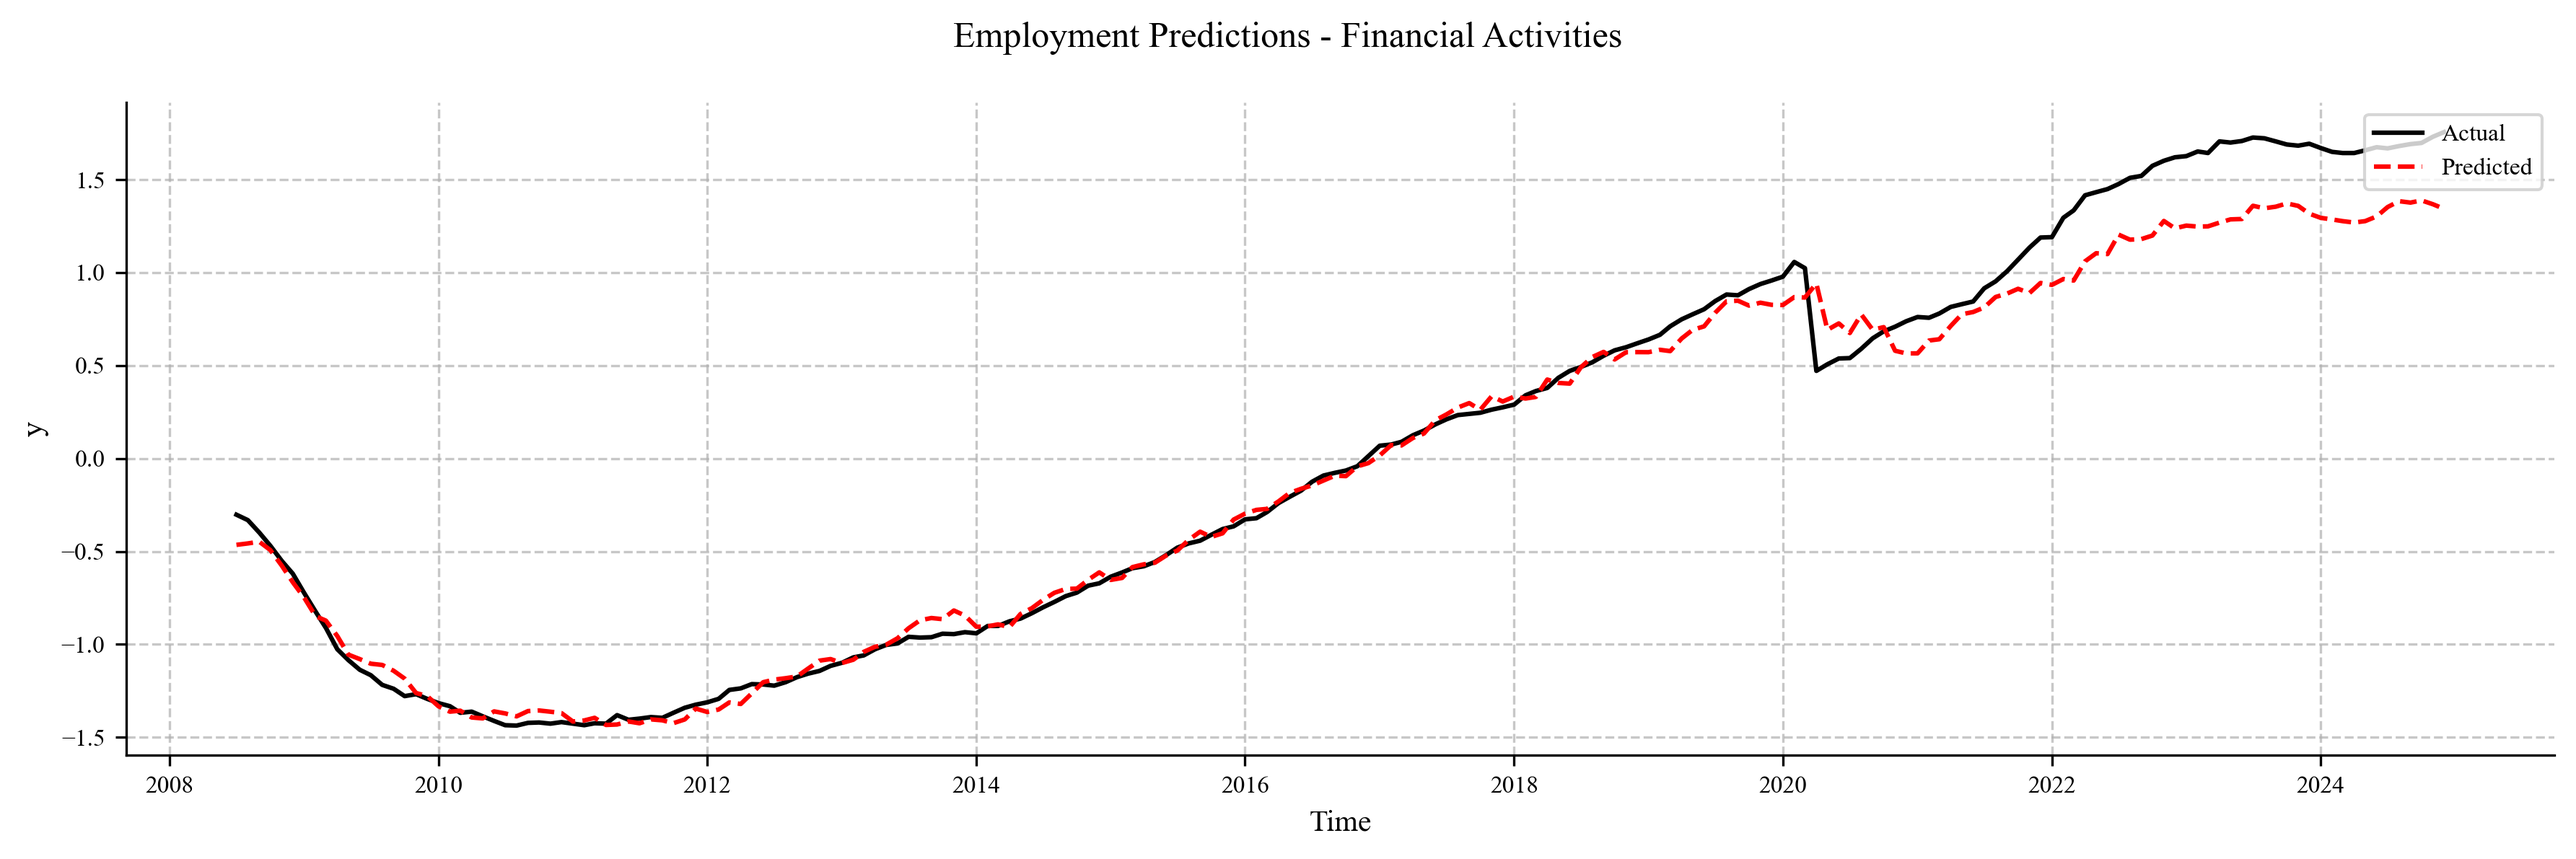
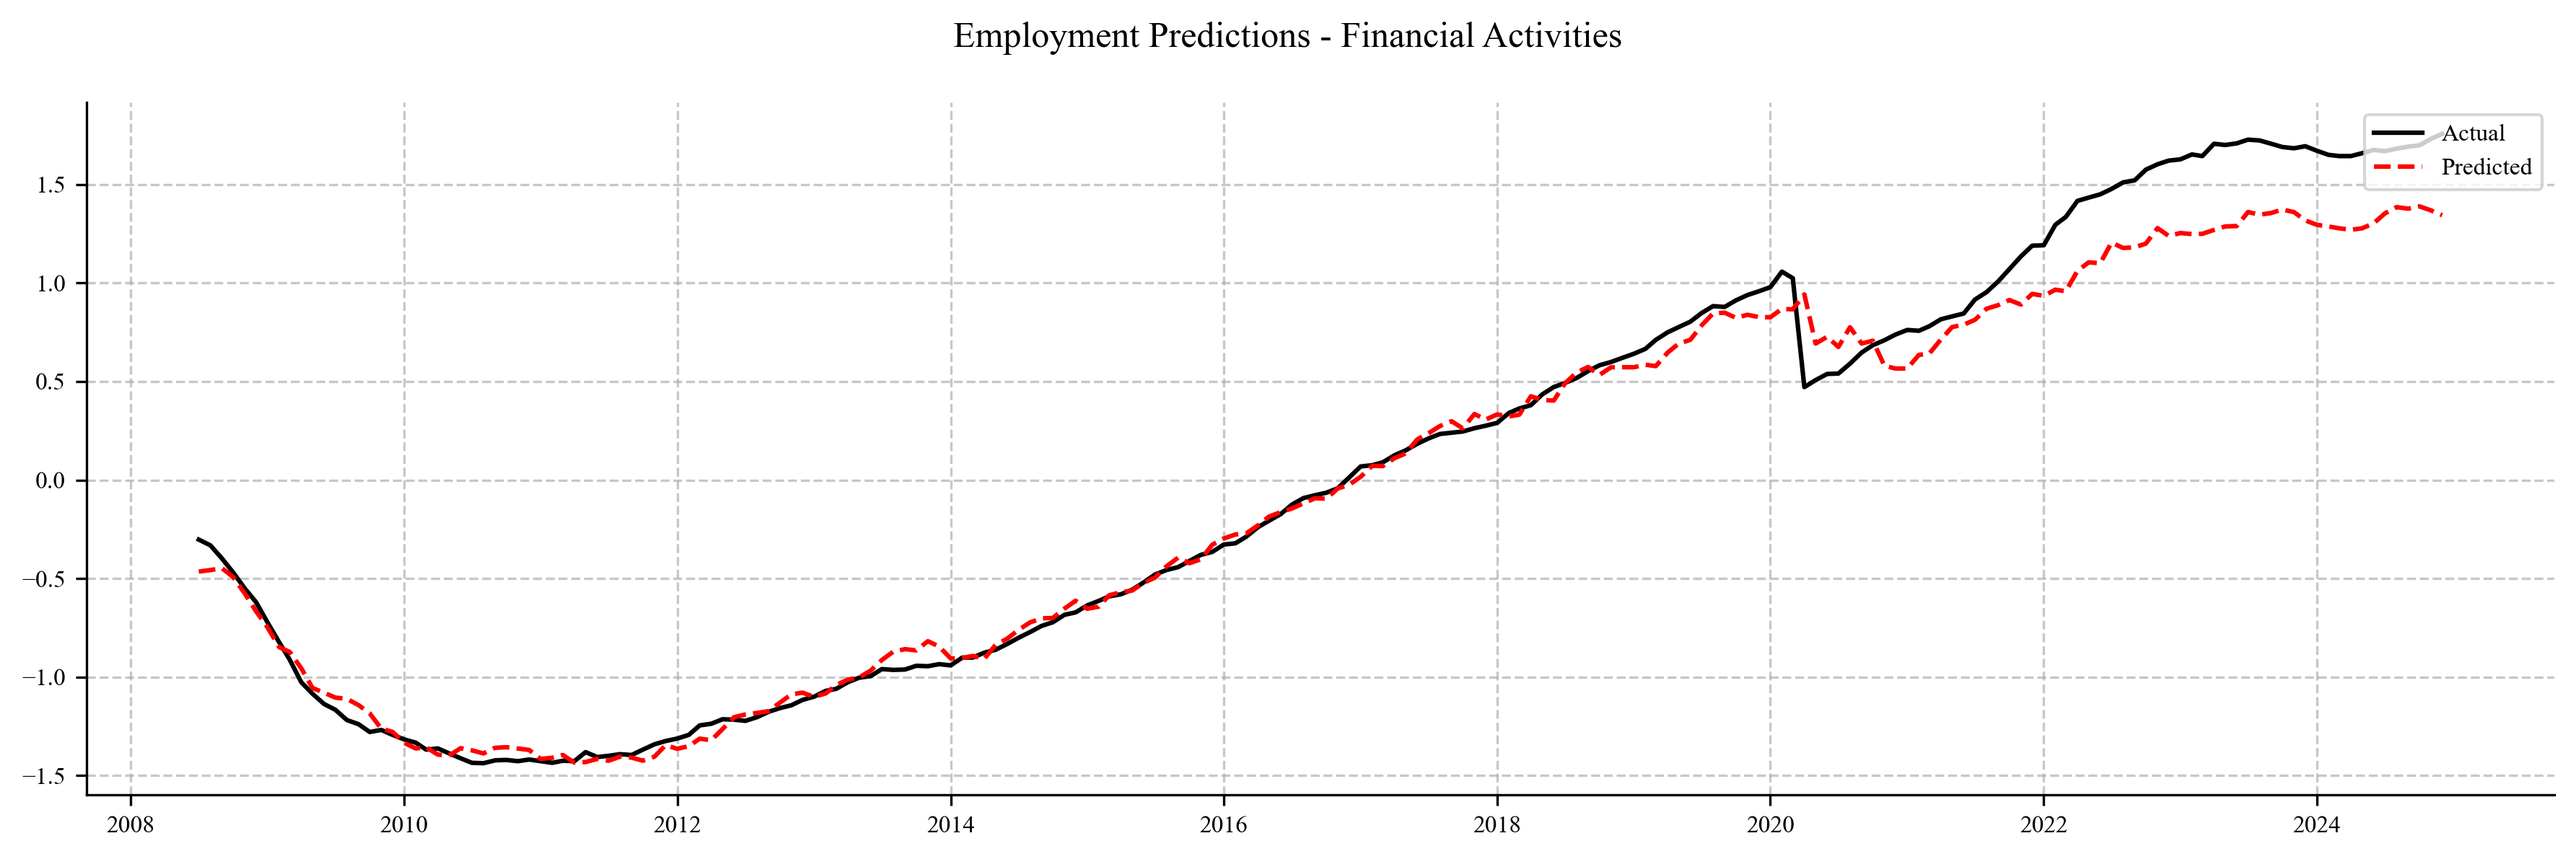
fixed styling on generated visuals

diff --git a/src/engine/evaluate.py b/src/engine/evaluate.py
@@ -8,6 +8,7 @@ from src.visualization.plotter import plot_predictions, plot_loss_curves, print_
 from OLD_FILES.LSTNet import LSTNet
 import argparse
 import time
+import matplotlib.pyplot as plt
 
 def load_model(industry=None):
     """
@@ -143,6 +144,106 @@ def calculate_metrics(y_true, y_pred, feature_names):
     
     return metrics
 
+def plot_average_unemployment(industry_predictions, savepath=None):
+    """
+    Plot the average predicted unemployment versus real average unemployment across all industries.
+    
+    Args:
+        industry_predictions (dict): Dictionary mapping industry names to (dates, y_true, y_pred) tuples
+        savepath (str, optional): Path to save the plot
+    """
+    # Find common date range across all industries
+    # We'll use the first industry's dates as reference
+    ref_industry = list(industry_predictions.keys())[0]
+    ref_dates = industry_predictions[ref_industry]['dates']
+    
+    # Initialize arrays for accumulated true and predicted values
+    avg_true = np.zeros(len(industry_predictions[ref_industry]['y_true']))
+    avg_pred = np.zeros(len(industry_predictions[ref_industry]['y_pred']))
+    
+    # Count how many industries we're averaging
+    count = 0
+    
+    # Sum up all the values
+    for industry, data in industry_predictions.items():
+        if data['y_true'].shape[0] == avg_true.shape[0]:  # Make sure lengths match
+            avg_true += data['y_true']
+            avg_pred += data['y_pred']
+            count += 1
+    
+    # Calculate averages
+    if count > 0:
+        avg_true /= count
+        avg_pred /= count
+        
+        # Plot the average comparison
+        fig, ax = plt.subplots(figsize=(12, 6))
+        
+        # Plot the true average
+        ax.plot(ref_dates[-len(avg_true):], avg_true, 
+                label='Actual Average Unemployment', 
+                color='black', 
+                linewidth=2)
+        
+        # Plot the predicted average
+        ax.plot(ref_dates[-len(avg_pred):], avg_pred, 
+                label='Predicted Average Unemployment', 
+                color='red', 
+                linewidth=2, 
+                linestyle='--')
+        
+        # Add title but remove axis labels
+        ax.set_title('Average Unemployment Across All Industries', fontweight='bold')
+        
+        # Remove axis labels
+        ax.set_xlabel('')
+        ax.set_ylabel('')
+        
+        # Add legend at the top right
+        ax.legend(loc='upper right')
+        
+        # Add grid
+        ax.grid(True, alpha=0.3)
+        
+        # Apply academic styling
+        plt.xticks(rotation=45)
+        plt.tight_layout()
+        
+        # Calculate metrics for average prediction
+        mse = np.mean((avg_true - avg_pred)**2)
+        mae = np.mean(np.abs(avg_true - avg_pred))
+        
+        # Calculate SMAPE
+        denominator = np.abs(avg_true) + np.abs(avg_pred)
+        mask = denominator != 0
+        smape = 100.0 * np.mean(2.0 * np.abs(avg_true[mask] - avg_pred[mask]) / denominator[mask])
+        
+        # Add metrics annotation - moved lower to avoid overlap with the line legend
+        metrics_text = f'MSE: {mse:.4f}\nMAE: {mae:.4f}\nSMAPE: {smape:.2f}%'
+        ax.annotate(metrics_text, xy=(0.02, 0.70), xycoords='axes fraction',  # Moved from 0.95 to 0.70
+                    bbox=dict(boxstyle="round,pad=0.3", fc="white", ec="black", alpha=0.8),
+                    va='top', ha='left')
+        
+        # Save or show the plot
+        if savepath:
+            # Ensure directory exists
+            Path(savepath).parent.mkdir(exist_ok=True, parents=True)
+            plt.savefig(savepath, dpi=300, bbox_inches="tight")
+        else:
+            plt.show()
+            
+        plt.close()
+        
+        print(f"\nAverage unemployment metrics across {count} industries:")
+        print(f"MSE: {mse:.4f}")
+        print(f"MAE: {mae:.4f}")
+        print(f"SMAPE: {smape:.2f}%")
+        
+        return avg_true, avg_pred
+    else:
+        print("No valid data to compute average unemployment")
+        return None, None
+
 def evaluate_all_industries():
     """
     Evaluate models for all industries and generate comparison visualizations.
@@ -156,6 +257,9 @@ def evaluate_all_industries():
     
     # Dictionary to store feature metrics for model comparison chart
     model_comparison_data = {}
+    
+    # Dictionary to store prediction data for each industry
+    industry_predictions = {}
     
     # Evaluate each industry
     for i, industry in enumerate(industries):
@@ -171,12 +275,21 @@ def evaluate_all_industries():
                 continue
             
             # Evaluate model
-            _, _, _, feature_names, metrics = evaluate_industry_model(industry)
+            dates, y_true, y_pred, feature_names, metrics = evaluate_industry_model(industry)
             
             # Store metrics for comparison
-            if 'y' in metrics:
+            if 'y' in feature_names:
+                y_index = feature_names.index('y')
+                
                 industry_metrics[industry] = metrics['y']
                 model_comparison_data[industry] = metrics
+                
+                # Store prediction data for calculating average unemployment
+                industry_predictions[industry] = {
+                    'dates': dates[-len(y_pred):],  # Use same date range as predictions
+                    'y_true': y_true[:, y_index],
+                    'y_pred': y_pred[:, y_index]
+                }
                 
         except Exception as e:
             print(f"Error evaluating model for industry {industry}: {str(e)}")
@@ -196,6 +309,13 @@ def evaluate_all_industries():
     for industry, metrics in industry_metrics.items():
         print(f"{industry:<30} {metrics['MSE']:<10.4f} {metrics['MAE']:<10.4f} {metrics['SMAPE']:<12.2f}%")
     
+    # Plot average unemployment across all industries
+    if len(industry_predictions) > 0:
+        plot_average_unemployment(
+            industry_predictions,
+            savepath=comparisons_dir / 'average_unemployment_comparison.png'
+        )
+    
     # Create a single chart showing SMAPE values for all industries
     if len(model_comparison_data) > 0:
         # Chart 1: All industries
@@ -207,11 +327,11 @@ def evaluate_all_industries():
             title="Industry Model Performance Comparison (SMAPE %)"
         )
         
-        # Chart 2: Only industries with SMAPE < 30%
+        # Chart 2: Only industries with SMAPE < 40%
         # Create a filtered copy of the metrics dictionary
         filtered_metrics = {}
         for industry, metrics in model_comparison_data.items():
-            if metrics['y']['SMAPE'] < 40.0:  # Only include industries with SMAPE < 30%
+            if metrics['y']['SMAPE'] < 40.0:  # Only include industries with SMAPE < 40%
                 filtered_metrics[industry] = metrics
         
         if len(filtered_metrics) > 0:
@@ -222,9 +342,9 @@ def evaluate_all_industries():
                 savepath=comparisons_dir / 'filtered_industries_smape_comparison.png',
                 title="Industry Model Performance Comparison"
             )
-            print(f"\nCreated filtered chart with {len(filtered_metrics)} industries (SMAPE < 30%)")
+            print(f"\nCreated filtered chart with {len(filtered_metrics)} industries (SMAPE < 40%)")
         else:
-            print("\nNo industries with SMAPE < 30% found for filtered chart")
+            print("\nNo industries with SMAPE < 40% found for filtered chart")
 
 def main():
     parser = argparse.ArgumentParser(description='Evaluate trained models and generate visualizations')

diff --git a/src/visualization/plotter.py b/src/visualization/plotter.py
@@ -50,9 +50,9 @@ def plot_loss_curves(train_losses, val_losses, savepath=None, title=None):
              linewidth=config.VISUALIZATION_CONFIG['line_width'],
              linestyle=config.VISUALIZATION_CONFIG['line_styles']['pred'])
     
-    # For academic papers, we'll keep axis labels minimal or remove them
-    plt.xlabel("Epoch")
-    plt.ylabel("Loss")
+    # Remove axis labels for academic paper
+    plt.xlabel("")
+    plt.ylabel("")
     
     if title and config.VISUALIZATION_CONFIG['show_titles']:
         plt.title(title)
@@ -105,9 +105,8 @@ def plot_predictions(dates, y_true, y_pred, feature_names, n_plots=3, savepath=N
         
         ax.legend(loc=config.VISUALIZATION_CONFIG['legend_loc'])
         
-        # For academic papers, minimal or no labels
-        # Just showing the feature name as the y-axis label
-        ax.set_ylabel(feature_names[i])
+        # Remove y-axis label - we don't need it for academic paper
+        ax.set_ylabel('')
         
         # Remove x-axis label for all but the bottom subplot
         if ax != axes[-1]:
@@ -121,9 +120,9 @@ def plot_predictions(dates, y_true, y_pred, feature_names, n_plots=3, savepath=N
         fig.suptitle(title, fontsize=config.VISUALIZATION_CONFIG['title_size'])
         fig.subplots_adjust(top=0.95)
     
-    # Only add the time label to the bottom plot
+    # Remove the time label from the bottom plot
     if len(axes) > 0:
-        axes[-1].set_xlabel("Time")
+        axes[-1].set_xlabel('')
     
     plt.tight_layout()
     
